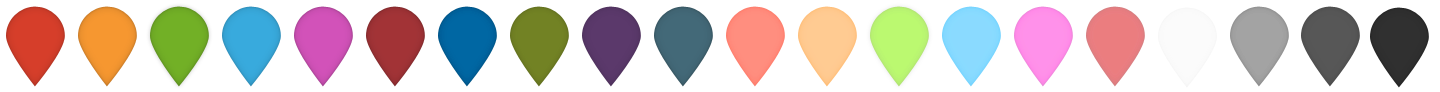
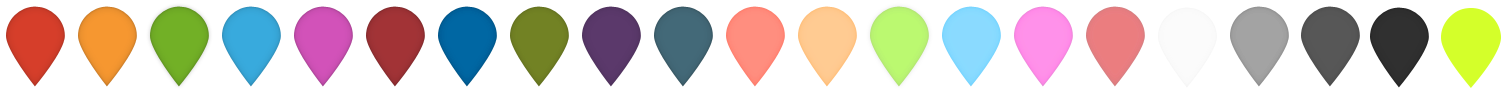
new marker colour newyellow

diff --git a/src/scss/all.scss b/src/scss/all.scss
@@ -18,6 +18,7 @@
 @import "./partials/search";
 @import "./partials/listview";
 @import "./partials/address-search";
+@import "./partials/markers-new-colours";
 
 
 :root {

diff --git a/src/scss/partials/_markers-new-colours.scss b/src/scss/partials/_markers-new-colours.scss
@@ -1,0 +1,3 @@
+.awesome-marker-icon-newyellow {
+    background-position: -718px 0;
+}
